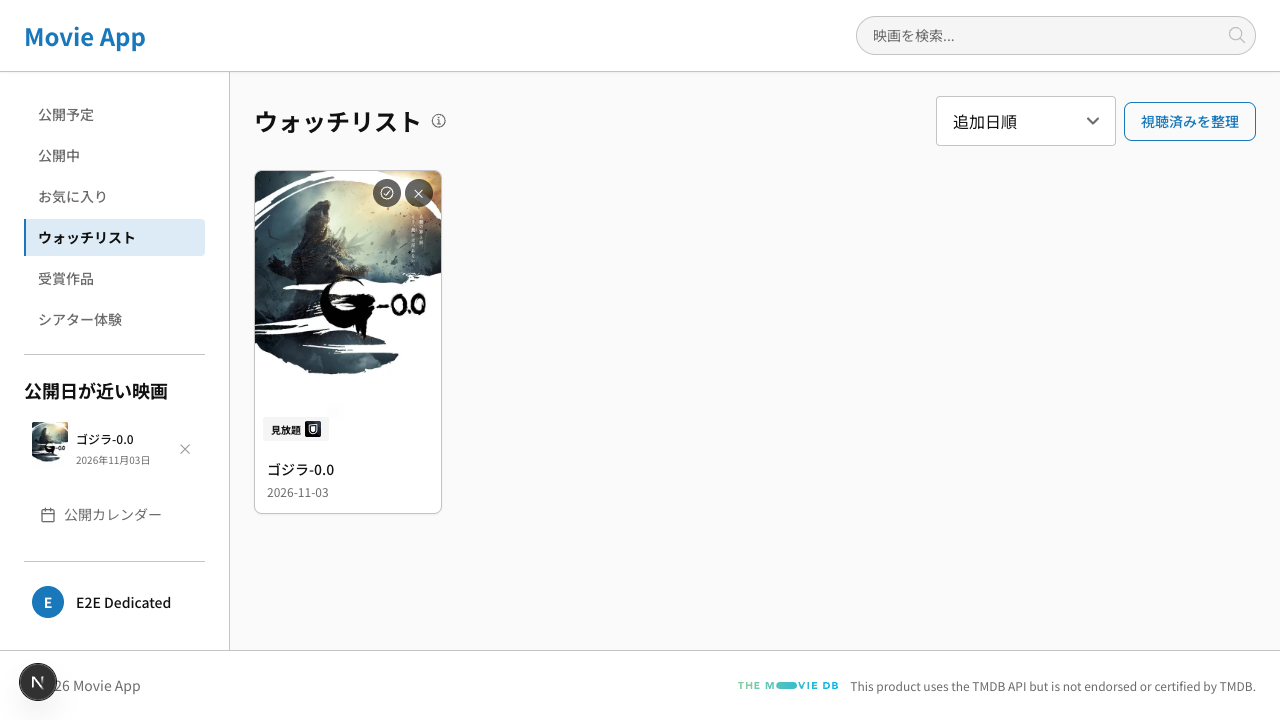
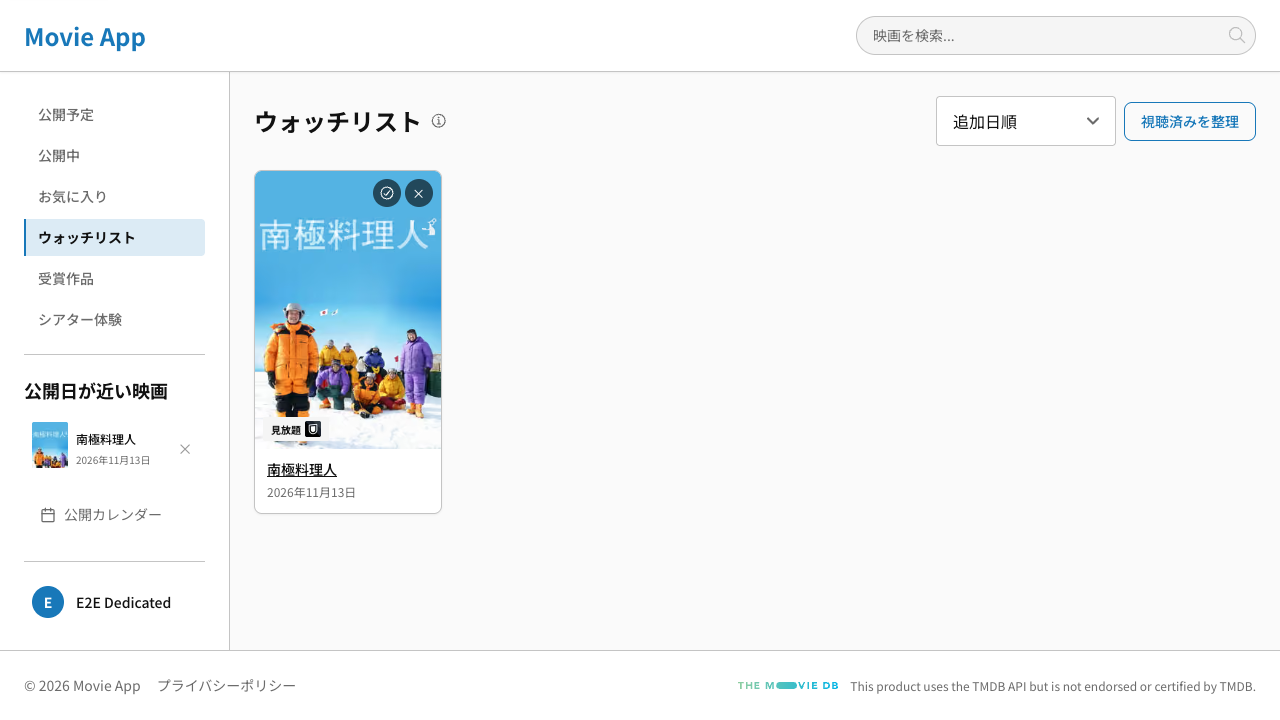
fix(review): バグが写ったままのスクショを更新し、テストの穴を埋める
PR #1088 のレビュー指摘への対応。

## ビジュアル証跡が無い理由が事実と違っていた

「共有テストユーザーのウォッチリストは常に空なので撮れない」と書いたが、
`e2e/watchlist/watchlistStreaming.spec.ts` は**専用ユーザーを作って
`/watchlist` のタイルを撮っている**。自分でそれを動かしておきながら
撮れないと書いていた。

しかも `docs/e2e-screenshots/watchlist-streaming-badge.png` には
**このバグがそのまま写っていた**（タイルが `2026-11-03`、同じ画面の
サイドバーが `2026年11月03日`）。更新しないとマージ後も製品と食い違った
画像が残り、次に E2E を回した人の差分を汚す。再生成してコミットに含めた。

## テストの穴

- `console.error` のスパイをアサーションの後ろで `mockRestore` していた。
  `restoreMocks: false` なので、このテストが落ちると以降の約20本で
  警告が黙る。`afterEach` に移した
- #1019 の完了条件「日付が無い作品で空表示のまま崩れない」に
  アサーションが無かった（`release_date: null` のケースを追加）
- 「和暦」は誤用（`2026年03月01日` は西暦の日本語表記）。テスト名を直した
- クラス名で引いている理由と、クラス名変更で黙って素通りする脆さを
  コメントに残した

サイドバー（`watchlistItem.tsx`）に同じ「生の値でガード」が残っている件は
#1091 に切り出した。

diff --git a/src/features/watchlist/component/watchlistList/watchlistList.test.tsx b/src/features/watchlist/component/watchlistList/watchlistList.test.tsx
@@ -89,37 +89,65 @@ describe('WatchlistList', () => {
   });
 
   /**
-   * API は ISO 形式（`2026-03-01`）で返すが、そのまま出すと
-   * 他の一覧（`MovieTile`・サイドバー）と表記が揃わない（#1019）
+   * 公開日の表記（#1019）
+   *
+   * ⚠ 日付の `<p>` には role もラベルも無いのでクラス名で引いている。
+   * CSS Modules のクラス名を変えると**黙って素通りする**（jest は
+   * `next/jest` でクラス名をそのまま文字列にするので今は当たる）。
    */
-  it('公開日が他画面と同じ和暦表記で表示される', () => {
-    render(<WatchlistList watchlist={createMockItems(1)} isLoading={false} />);
+  describe('公開日', () => {
+    /** 日付の行（role もラベルも無いのでクラス名で引く） */
+    const dateRow = (container: HTMLElement) =>
+      container.querySelector('[class*="c_watchlist_tile__date"]');
 
-    expect(screen.getByText('2026年03月01日')).toBeInTheDocument();
-    expect(screen.queryByText('2026-03-01')).not.toBeInTheDocument();
-  });
+    // API は ISO 形式（2026-03-01）で返すが、そのまま出すと
+    // 他の一覧（MovieTile・サイドバー）と表記が揃わない
+    it('他画面と同じ日本語表記で表示される', () => {
+      render(
+        <WatchlistList watchlist={createMockItems(1)} isLoading={false} />,
+      );
 
-  // 不正な日付では `formatDate` が null を返す。空の <p> を出さない
-  it('日付が不正な場合は公開日の行ごと出さない', () => {
-    // formatDate は握りつぶすときに console.error を出す。
-    // ここでは想定どおりなので、テスト出力を汚さないよう黙らせる
-    const consoleError = jest
-      .spyOn(console, 'error')
-      .mockImplementation(() => {});
+      expect(screen.getByText('2026年03月01日')).toBeInTheDocument();
+      expect(screen.queryByText('2026-03-01')).not.toBeInTheDocument();
+    });
 
-    const [item] = createMockItems(1);
-    const { container } = render(
-      <WatchlistList
-        watchlist={[{ ...item, release_date: 'not-a-date' }]}
-        isLoading={false}
-      />,
-    );
+    // #1019 の完了条件「日付が無い作品で空表示のまま崩れない」
+    it('日付が無い作品では公開日の行ごと出さない', () => {
+      const [item] = createMockItems(1);
+      const { container } = render(
+        <WatchlistList
+          watchlist={[{ ...item, release_date: null }]}
+          isLoading={false}
+        />,
+      );
 
-    expect(
-      container.querySelector('[class*="c_watchlist_tile__date"]'),
-    ).not.toBeInTheDocument();
+      expect(dateRow(container)).not.toBeInTheDocument();
+    });
 
-    consoleError.mockRestore();
+    /**
+     * 不正な日付では `formatDate` が null を返す。
+     * `item.release_date` で描画を判定したままだと、中身の無い `<p>` が残る
+     */
+    it('日付が不正な場合も公開日の行ごと出さない', () => {
+      // formatDate は握りつぶすときに console.error を出す。想定どおりなので
+      // 黙らせるが、**復元は afterEach で行う**（ここで mockRestore すると
+      // アサーション失敗時に復元されず、以降のテストで警告が消える）
+      jest.spyOn(console, 'error').mockImplementation(() => {});
+
+      const [item] = createMockItems(1);
+      const { container } = render(
+        <WatchlistList
+          watchlist={[{ ...item, release_date: 'not-a-date' }]}
+          isLoading={false}
+        />,
+      );
+
+      expect(dateRow(container)).not.toBeInTheDocument();
+    });
+
+    afterEach(() => {
+      jest.restoreAllMocks();
+    });
   });
 
   it('onClickが渡された場合、タイルクリックでコールバックが呼ばれる', async () => {
